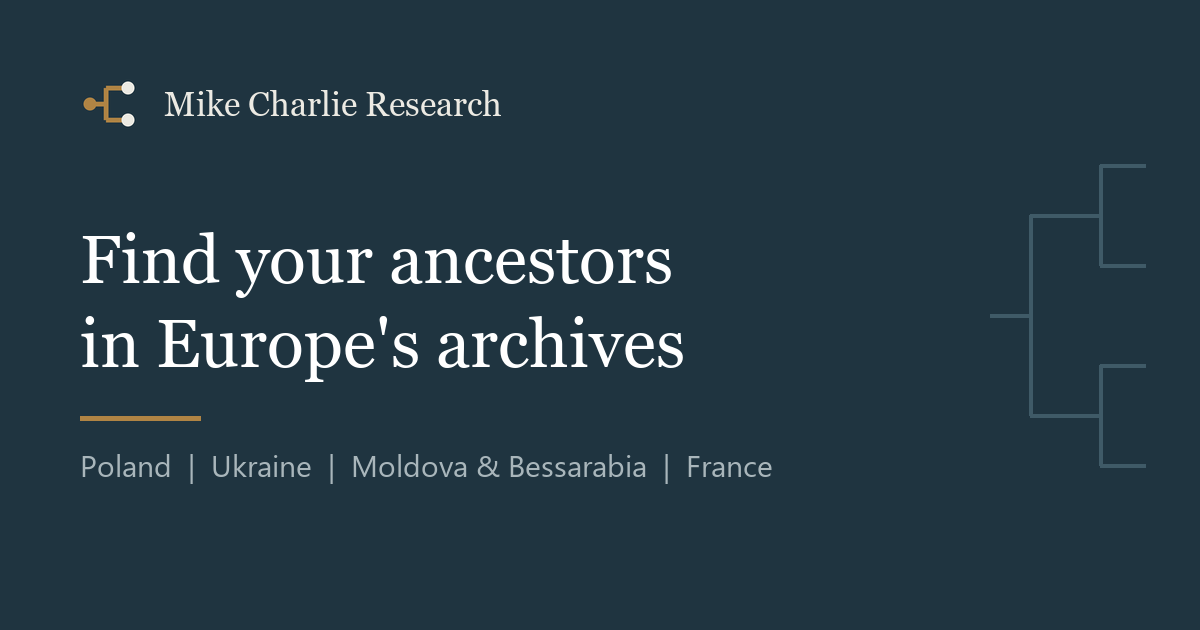
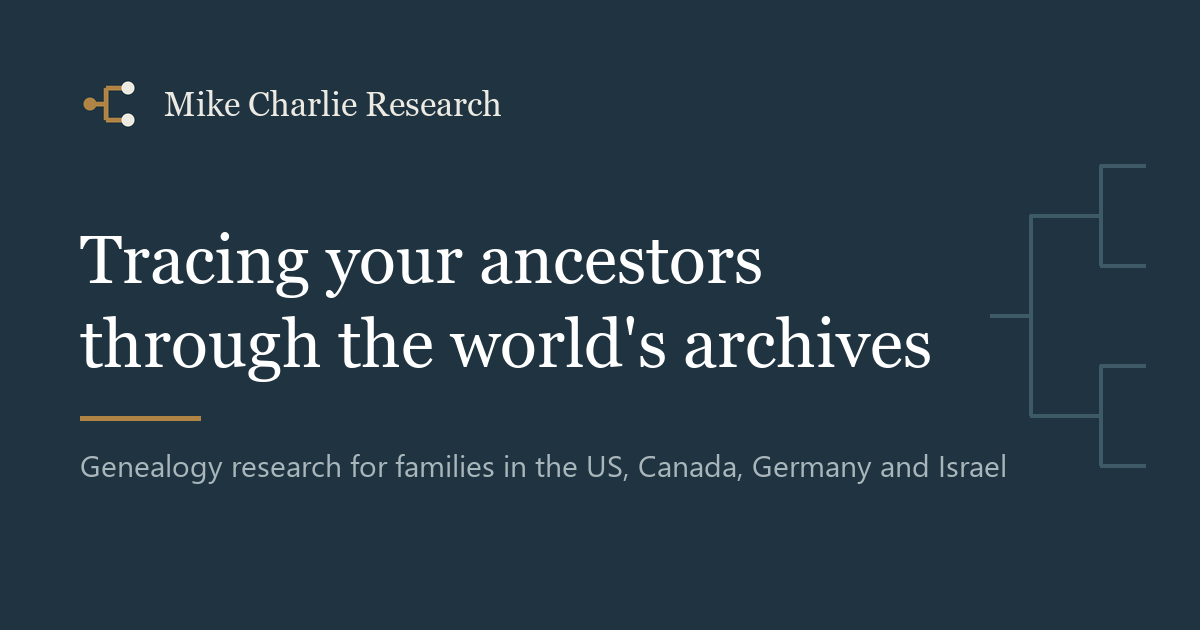
Worldwide headline, fee agreed upfront, 'nothing found' FAQ

Changed region(s): [[0.0617, 0.3619, 0.7708, 0.6032], [0.0617, 0.7238, 0.8325, 0.7841]]

diff --git a/pl/index.html b/pl/index.html
@@ -5,7 +5,7 @@
   <meta name="viewport" content="width=device-width, initial-scale=1">
   <meta name="google-site-verification" content="2F_pTVGXEuFF2f7Jn3d5eMqypH66WBDVEzNMgGzVhtg">
   <title>Poszukiwania przodków w Europie | Mike Charlie Research</title>
-  <meta name="description" content="Poszukiwania przodków w archiwach Polski, Ukrainy, Mołdawii (Besarabii), Francji i innych krajów. Dokumentacja do obywatelstwa Kanady, kwerendy naukowe, OSINT.">
+  <meta name="description" content="Poszukiwania przodków w archiwach na całym świecie, zwłaszcza w Polsce, na Ukrainie, w Mołdawii (Besarabii) i Francji. Obywatelstwo Kanady, kwerendy, OSINT.">
   <link rel="canonical" href="https://osintinvestigator.github.io/osint/pl/">
   <link rel="alternate" hreflang="en" href="https://osintinvestigator.github.io/osint/">
   <link rel="alternate" hreflang="pl" href="https://osintinvestigator.github.io/osint/pl/">
@@ -16,7 +16,7 @@
   <meta property="og:type" content="website">
   <meta property="og:site_name" content="Mike Charlie Research">
   <meta property="og:title" content="Genealogia i poszukiwania przodków w Europie | Mike Charlie Research">
-  <meta property="og:description" content="Poszukiwania przodków w archiwach Polski, Ukrainy, Mołdawii, Francji i innych krajów, dla rodzin z USA, Kanady, Niemiec i Izraela. Każde ustalenie poparte przypisem do dokumentu.">
+  <meta property="og:description" content="Poszukiwania przodków w archiwach na całym świecie, zwłaszcza w Polsce, na Ukrainie, w Mołdawii i Francji, dla rodzin z USA, Kanady, Niemiec i Izraela. Każde ustalenie poparte przypisem do dokumentu.">
   <meta property="og:url" content="https://osintinvestigator.github.io/osint/pl/">
   <meta property="og:image" content="https://osintinvestigator.github.io/osint/assets/og-image-pl.png">
   <meta property="og:image:width" content="1200">
@@ -46,7 +46,7 @@
         "logo": "https://osintinvestigator.github.io/osint/assets/apple-touch-icon.png",
         "image": "https://osintinvestigator.github.io/osint/assets/og-image-pl.png",
         "email": "mike.charlie21@proton.me",
-        "description": "Poszukiwania genealogiczne w archiwach europejskich, zwłaszcza Polski, Ukrainy, Mołdawii (historycznej Besarabii) i Francji, dla klientów z USA, Kanady, Niemiec i Izraela. Dokumentacja pochodzenia do potwierdzenia obywatelstwa Kanady, kwerendy dla naukowców, weryfikacja źródeł historycznych i biały wywiad (OSINT).",
+        "description": "Poszukiwania genealogiczne w archiwach na całym świecie, zwłaszcza Polski, Ukrainy, Mołdawii (historycznej Besarabii) i Francji, dla klientów z USA, Kanady, Niemiec i Izraela. Dokumentacja pochodzenia do potwierdzenia obywatelstwa Kanady, kwerendy dla naukowców, weryfikacja źródeł historycznych i biały wywiad (OSINT).",
         "areaServed": "Worldwide",
         "availableLanguage": ["Polish", "English"],
         "knowsAbout": ["Genealogia", "Poszukiwania przodków", "Genealogia Europy Wschodniej", "Besarabia", "Mołdawia", "Ukraina", "Obywatelstwo Kanady przez pochodzenie", "Rząd RP na uchodźstwie", "Księgi metrykalne", "Emigracja", "Weryfikacja źródeł historycznych", "OSINT"]
@@ -61,6 +61,8 @@
            "acceptedAnswer": {"@type": "Answer", "text": "To zależy od kraju i parafii lub gminy wyznaniowej. W Polsce wiele katolickich ksiąg parafialnych zachowało się od XVII lub XVIII wieku; na dawnych ziemiach Imperium Rosyjskiego, np. w Besarabii, większość zachowanych ksiąg metrykalnych pochodzi z XIX wieku. Część zasobów zniszczyły wojny, więc zanim zacznę pracę, mówię, czego realnie można się spodziewać."}},
           {"@type": "Question", "name": "Czy pomagasz w potwierdzeniu obywatelstwa Kanady przez pochodzenie?",
            "acceptedAnswer": {"@type": "Answer", "text": "Tak, w części badawczej. Odnajduję i dokumentuję akta urodzeń, małżeństw i obywatelstwa, które łączą Cię z kanadyjskim przodkiem, i zestawiam je w przejrzystą dokumentację pochodzenia. Nie udzielam porad prawnych i nie składam wniosków; w tym zakresie należy zwrócić się do prawnika imigracyjnego lub bezpośrednio do IRCC."}},
+          {"@type": "Question", "name": "A jeśli nic się nie znajdzie?",
+           "acceptedAnswer": {"@type": "Answer", "text": "Wynik negatywny to też wynik. Dokumenty nie zawsze się zachowały, ale szukam wszędzie, gdzie mogą być ślady, a raport pokazuje, co i gdzie sprawdzono oraz gdzie trop się urywa. Kwotę ustalamy przed rozpoczęciem poszukiwań i nie zależy ona od wyniku."}},
           {"@type": "Question", "name": "Czy muszę znać miejscowość, z której pochodziła rodzina?",
            "acceptedAnswer": {"@type": "Answer", "text": "Nie. Ustalenie miejsca pochodzenia to często pierwszy etap pracy. Dokumenty emigracyjne, wojskowe i kościelne często wskazują miejscowość lub parafię."}},
           {"@type": "Question", "name": "Czy można porozmawiać telefonicznie?",
@@ -96,8 +98,8 @@
     <section class="hero">
       <div class="wrap">
         <div>
-          <h1>Odnajdę Twoich przodków w europejskich archiwach</h1>
-          <p class="lede">Poszukiwania genealogiczne w Polsce, na Ukrainie, w Mołdawii i historycznej Besarabii, we Francji i dalej, dla rodzin mieszkających w USA, Kanadzie, Niemczech, Izraelu i w Polsce.</p>
+          <h1>Szukam Twoich przodków w archiwach całego świata</h1>
+          <p class="lede">Kwerendy w archiwach na całym świecie, ze szczególnym doświadczeniem w Polsce, na Ukrainie, w Mołdawii i historycznej Besarabii oraz we Francji, dla rodzin z USA, Kanady, Niemiec, Izraela i Polski.</p>
           <p class="sub">Łączę klasyczną kwerendę archiwalną z metodami białego wywiadu (OSINT), dlatego ślady, które wyglądają na ślepy zaułek, często nim nie są.</p>
           <div class="cta-row">
             <a class="btn" href="#kontakt">Opisz historię swojej rodziny</a>
@@ -216,7 +218,7 @@
           </li>
           <li>
             <h3>Oceniam, co jest możliwe</h3>
-            <p>Jakie dokumenty mogły się zachować, gdzie są przechowywane, oraz proponowany zakres i koszt, zanim cokolwiek zacznę.</p>
+            <p>Jakie dokumenty mogły się zachować, gdzie są przechowywane, oraz proponowany zakres i kwota ustalona przed rozpoczęciem pracy.</p>
           </li>
           <li>
             <h3>Poszukiwania</h3>
@@ -276,6 +278,10 @@
           <details>
             <summary>Czy pomagasz w potwierdzeniu obywatelstwa Kanady przez pochodzenie?</summary>
             <p>Tak, w części badawczej. Odnajduję i dokumentuję akta urodzeń, małżeństw i obywatelstwa, które łączą Cię z kanadyjskim przodkiem, i zestawiam je w przejrzystą dokumentację pochodzenia. Nie udzielam porad prawnych i nie składam wniosków; w tym zakresie należy zwrócić się do prawnika imigracyjnego lub bezpośrednio do IRCC.</p>
+          </details>
+          <details>
+            <summary>A jeśli nic się nie znajdzie?</summary>
+            <p>Wynik negatywny to też wynik. Dokumenty nie zawsze się zachowały, ale szukam wszędzie, gdzie mogą być ślady, a raport pokazuje, co i gdzie sprawdzono oraz gdzie trop się urywa. Kwotę ustalamy przed rozpoczęciem poszukiwań i nie zależy ona od wyniku.</p>
           </details>
           <details>
             <summary>Czy muszę znać miejscowość, z której pochodziła rodzina?</summary>

diff --git a/index.html b/index.html
@@ -5,7 +5,7 @@
   <meta name="viewport" content="width=device-width, initial-scale=1">
   <meta name="google-site-verification" content="2F_pTVGXEuFF2f7Jn3d5eMqypH66WBDVEzNMgGzVhtg">
   <title>Eastern European Genealogy Research | Mike Charlie Research</title>
-  <meta name="description" content="Find your ancestors in Poland, Ukraine, Moldova (Bessarabia), France and beyond. Archival genealogy research, Canadian citizenship-by-descent records, OSINT.">
+  <meta name="description" content="Ancestor research in archives worldwide, in depth for Poland, Ukraine, Moldova (Bessarabia) and France. Canadian citizenship-by-descent records, OSINT.">
   <link rel="canonical" href="https://osintinvestigator.github.io/osint/">
   <link rel="alternate" hreflang="en" href="https://osintinvestigator.github.io/osint/">
   <link rel="alternate" hreflang="pl" href="https://osintinvestigator.github.io/osint/pl/">
@@ -16,7 +16,7 @@
   <meta property="og:type" content="website">
   <meta property="og:site_name" content="Mike Charlie Research">
   <meta property="og:title" content="Eastern European Genealogy Research | Mike Charlie Research">
-  <meta property="og:description" content="Ancestor research in the archives of Poland, Ukraine, Moldova, France and beyond, for families in the US, Canada, Germany and Israel. Every finding tied to a cited record.">
+  <meta property="og:description" content="Ancestor research in archives worldwide, in depth for Poland, Ukraine, Moldova and France, for families in the US, Canada, Germany and Israel. Every finding tied to a cited record.">
   <meta property="og:url" content="https://osintinvestigator.github.io/osint/">
   <meta property="og:image" content="https://osintinvestigator.github.io/osint/assets/og-image.png">
   <meta property="og:image:width" content="1200">
@@ -46,7 +46,7 @@
         "logo": "https://osintinvestigator.github.io/osint/assets/apple-touch-icon.png",
         "image": "https://osintinvestigator.github.io/osint/assets/og-image.png",
         "email": "mike.charlie21@proton.me",
-        "description": "Genealogy research in European archives, especially Poland, Ukraine, Moldova (historic Bessarabia) and France, for clients in the United States, Canada, Germany and Israel. Lineage documentation for proof of Canadian citizenship by descent, archival research for academics, historical source verification and open-source intelligence (OSINT).",
+        "description": "Genealogy research in archives worldwide, especially Poland, Ukraine, Moldova (historic Bessarabia) and France, for clients in the United States, Canada, Germany and Israel. Lineage documentation for proof of Canadian citizenship by descent, archival research for academics, historical source verification and open-source intelligence (OSINT).",
         "areaServed": "Worldwide",
         "availableLanguage": ["English", "Polish"],
         "knowsAbout": ["Eastern European genealogy", "Polish genealogy", "Ukrainian genealogy", "Bessarabia genealogy", "Moldovan genealogy", "Jewish genealogy", "French genealogy", "Canadian citizenship by descent", "Polish Government-in-Exile", "Archival research", "Metrical books", "Emigration records", "Historical source verification", "Open-source intelligence"],
@@ -81,6 +81,8 @@
            "acceptedAnswer": {"@type": "Answer", "text": "It depends on the country and the parish or congregation. In Poland many Catholic parish registers survive from the 17th or 18th century; in former Russian Empire territories such as Bessarabia most surviving metrical books date from the 19th century. Wars destroyed some collections, so I tell you what is likely to survive before any work begins."}},
           {"@type": "Question", "name": "Can you help me prove Canadian citizenship by descent?",
            "acceptedAnswer": {"@type": "Answer", "text": "Yes, on the research side. I find and document the birth, marriage and citizenship records that connect you to a Canadian ancestor, and assemble them into a clear lineage file. I do not give legal advice or submit applications; for that, work with an immigration lawyer or with IRCC directly."}},
+          {"@type": "Question", "name": "What if nothing is found?",
+           "acceptedAnswer": {"@type": "Answer", "text": "A negative result is a result too. Records do not always survive, but I search every place where traces could exist, and the report shows what was searched and where the trail ends. The fee is agreed before the search begins and does not depend on the outcome."}},
           {"@type": "Question", "name": "Do I need to know the village my family came from?",
            "acceptedAnswer": {"@type": "Answer", "text": "No. Finding the place of origin is often the first part of the job. Emigration, naturalisation, military and church records in the destination country frequently name the town or parish."}},
           {"@type": "Question", "name": "My family's surname was changed after emigration. Can you still find them?",
@@ -118,8 +120,8 @@
     <section class="hero">
       <div class="wrap">
         <div>
-          <h1>Find your ancestors in Europe's archives</h1>
-          <p class="lede">Genealogy research in Poland, Ukraine, Moldova and historic Bessarabia, France and beyond, for families who live in the United States, Canada, Germany, Israel or anywhere else.</p>
+          <h1>Tracing your ancestors through the world's archives</h1>
+          <p class="lede">Research in archives worldwide, with particular depth in Poland, Ukraine, Moldova and historic Bessarabia, and France, for families in the United States, Canada, Germany, Israel and beyond.</p>
           <p class="sub">I combine classical archival research with open-source intelligence methods, so leads that look like dead ends often turn out not to be.</p>
           <div class="cta-row">
             <a class="btn" href="#contact">Describe your family's story</a>
@@ -238,7 +240,7 @@
           </li>
           <li>
             <h3>I assess what is possible</h3>
-            <p>Which records are likely to survive, where they are held, and a proposed scope and estimate before any work starts.</p>
+            <p>Which records are likely to survive, where they are held, and a proposed scope with a fee agreed before any work starts.</p>
           </li>
           <li>
             <h3>Research</h3>
@@ -298,6 +300,10 @@
           <details>
             <summary>Can you help me prove Canadian citizenship by descent?</summary>
             <p>Yes, on the research side. I find and document the birth, marriage and citizenship records that connect you to a Canadian ancestor, and assemble them into a clear lineage file. I do not give legal advice or submit applications; for that, work with an immigration lawyer or with IRCC directly.</p>
+          </details>
+          <details>
+            <summary>What if nothing is found?</summary>
+            <p>A negative result is a result too. Records do not always survive, but I search every place where traces could exist, and the report shows what was searched and where the trail ends. The fee is agreed before the search begins and does not depend on the outcome.</p>
           </details>
           <details>
             <summary>Do I need to know the village my family came from?</summary>
